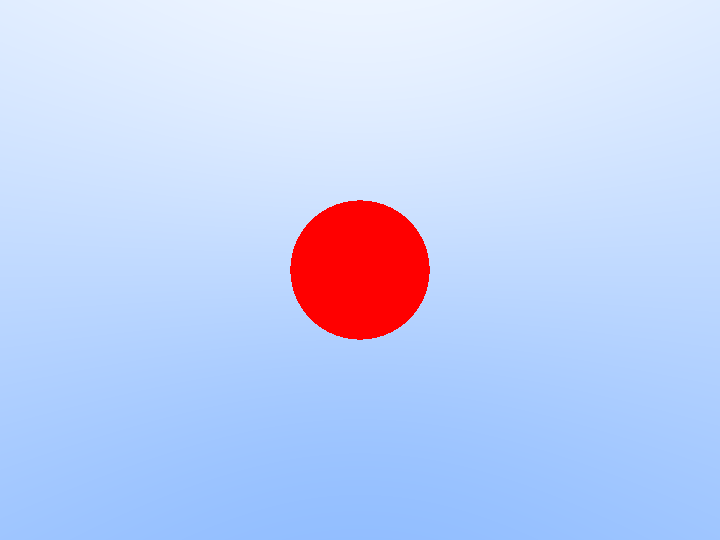
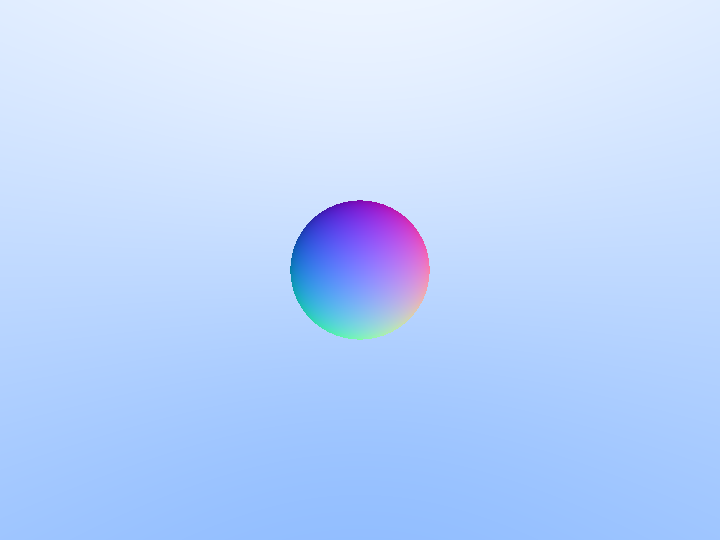
[MOD] color the sphere with normal;

Changed region(s): [[0.3972, 0.3556, 0.6111, 0.6519]]

diff --git a/engine/rrt/RrtTest.cpp b/engine/rrt/RrtTest.cpp
@@ -8,6 +8,7 @@
 
 #include <algorithm>
 #include <cassert>
+#include <cmath>
 #include <limits>
 
 #include "RrtTest.h"
@@ -105,9 +106,9 @@ void RrtTest::draw(int width, int height, int channel, uint8_t* data)
 			sphere.hit(ray, 0.f, FLT_MAX, rec);
 			if (rec.hit)
 			{
-				data[(row * width + col) * channel + 0] = 255;
-				data[(row * width + col) * channel + 1] = 0;
-				data[(row * width + col) * channel + 2] = 0;
+				data[(row * width + col) * channel + 0] = static_cast<uint8_t>((rec.n.x + 1.f) * 0.5f * 255.999);
+				data[(row * width + col) * channel + 1] = static_cast<uint8_t>((rec.n.y + 1.f) * 0.5f * 255.999);
+				data[(row * width + col) * channel + 2] = static_cast<uint8_t>((rec.n.z + 1.f) * 0.5f * 255.999);
 			}
 			else
 			{

diff --git a/engine/rrt/obj/Sphere.cpp b/engine/rrt/obj/Sphere.cpp
@@ -20,6 +20,7 @@ void Sphere::hit(const Ray& ray, float tMin, float tMax, HitRecord& record) cons
         return;
     }
     
+    // select the smaller result at first
     float root = (-b - std::sqrt(discriminant)) / (2.f * a);
     if (root < tMin || root > tMax)
     {
